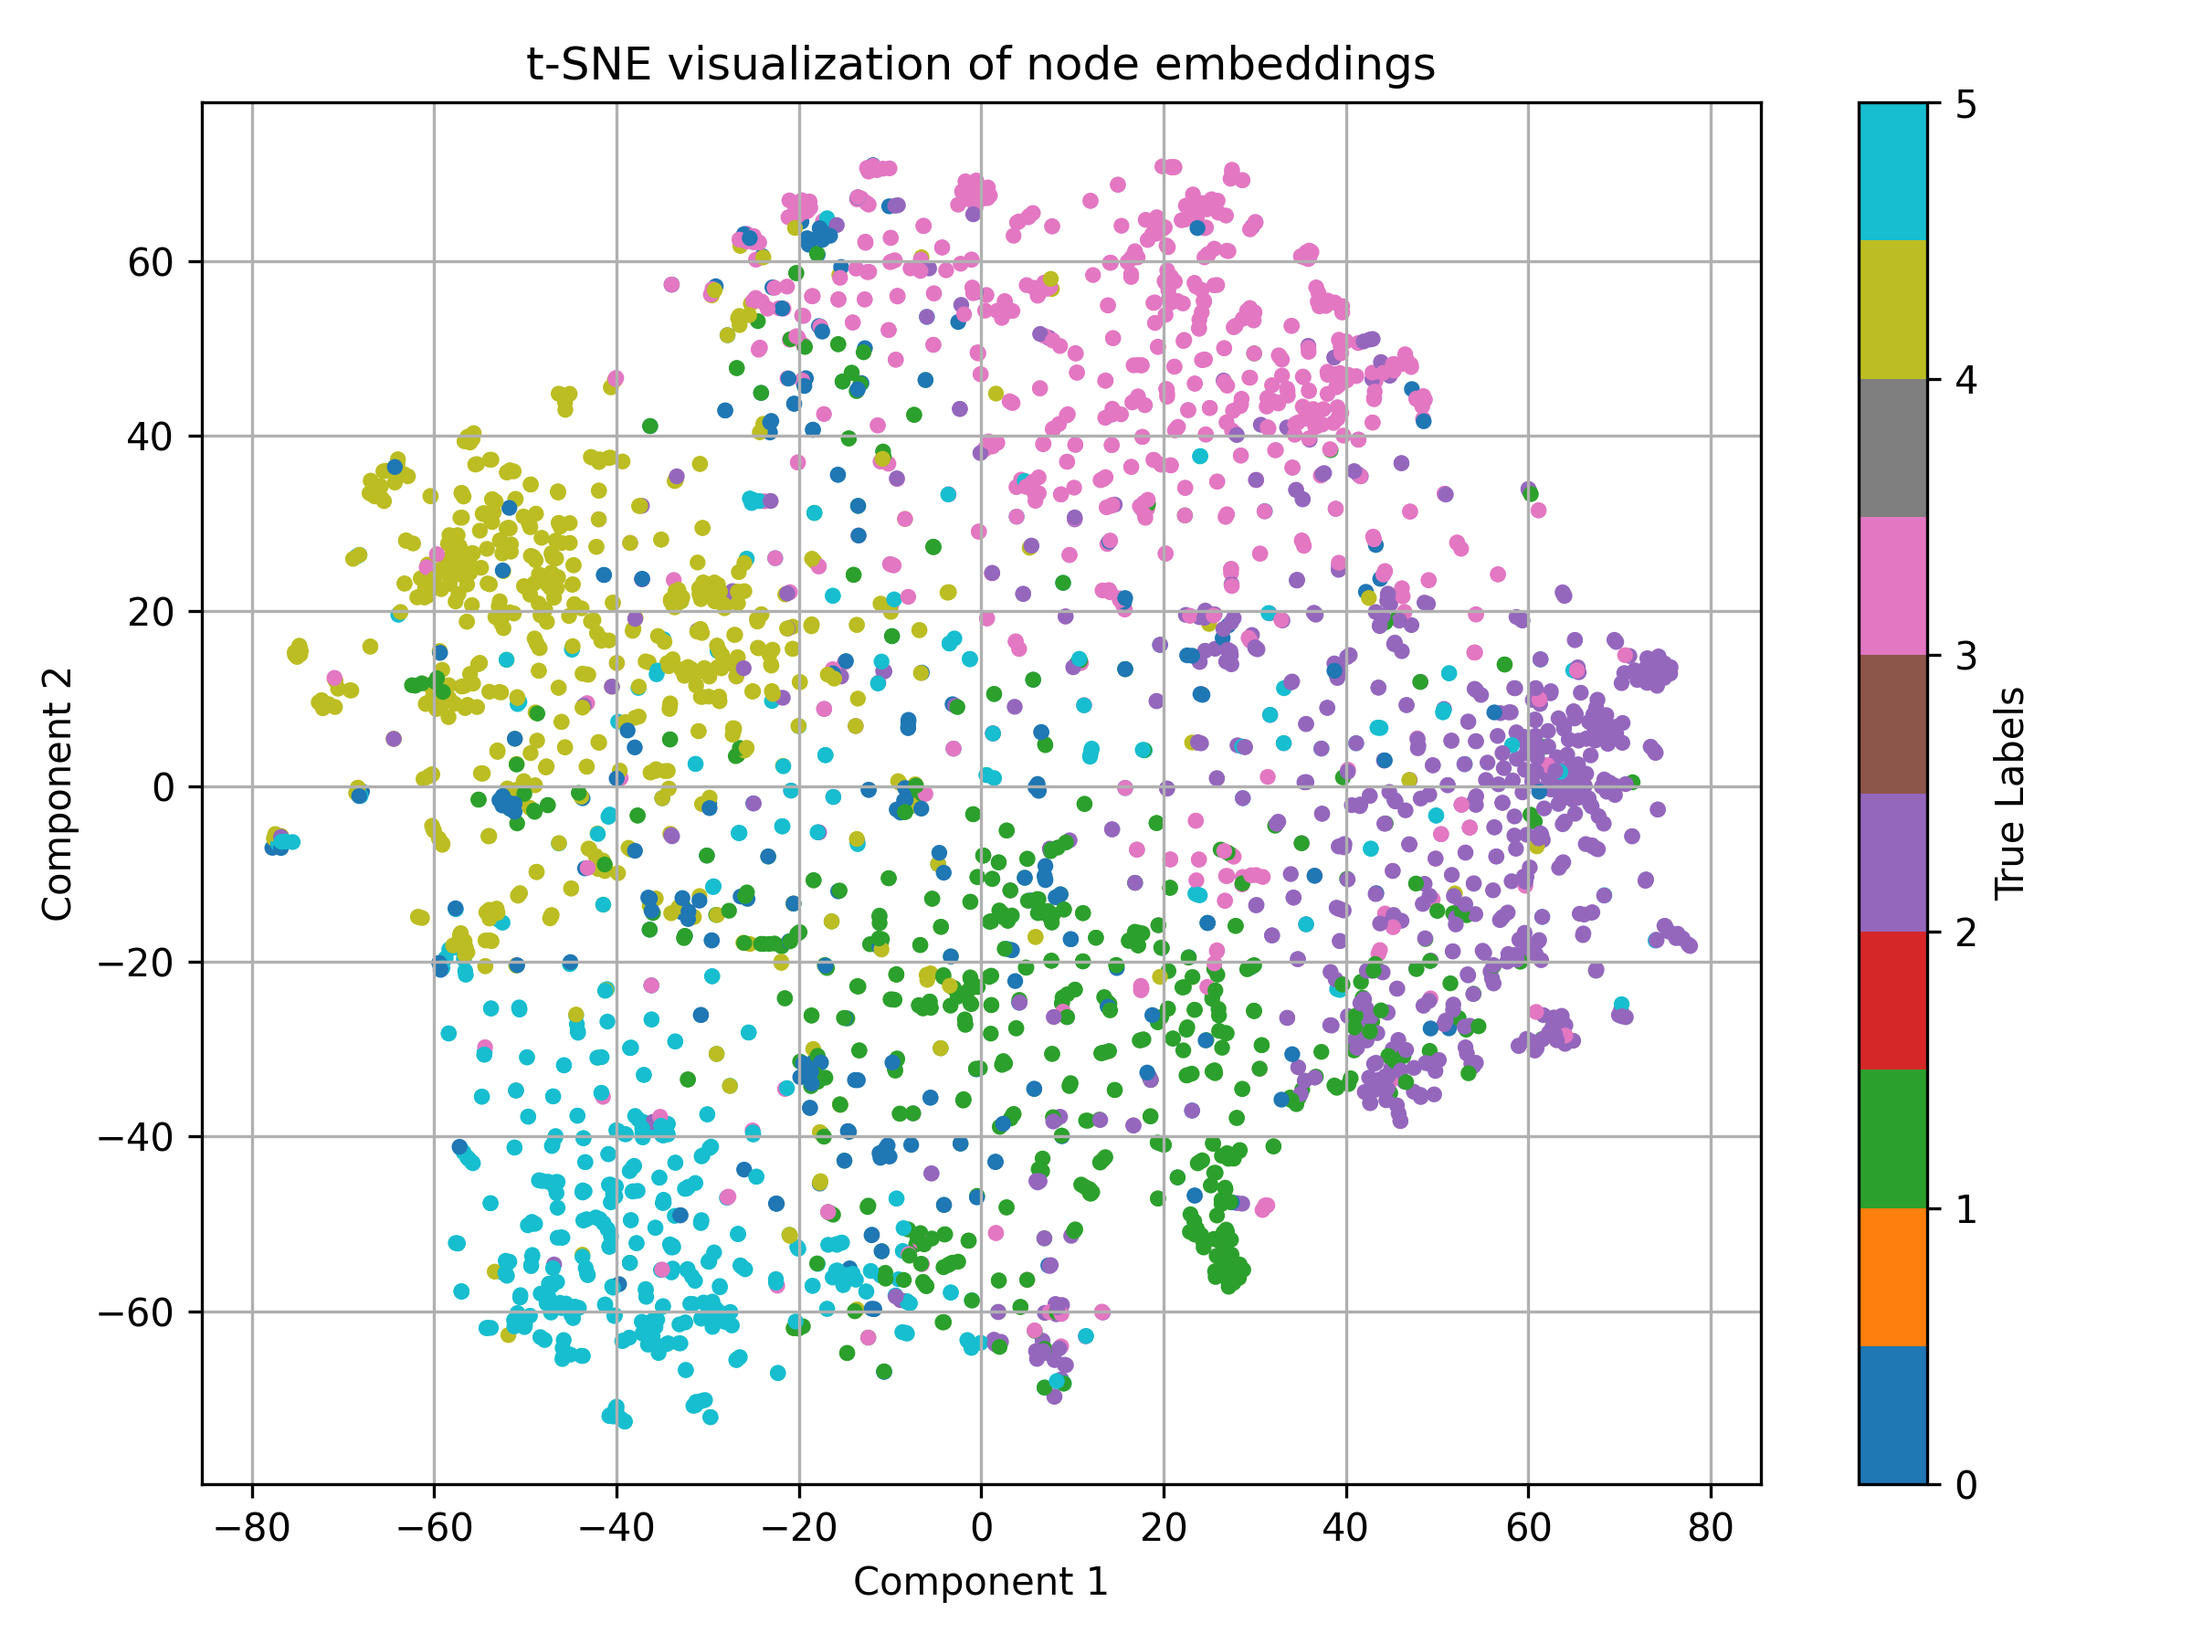
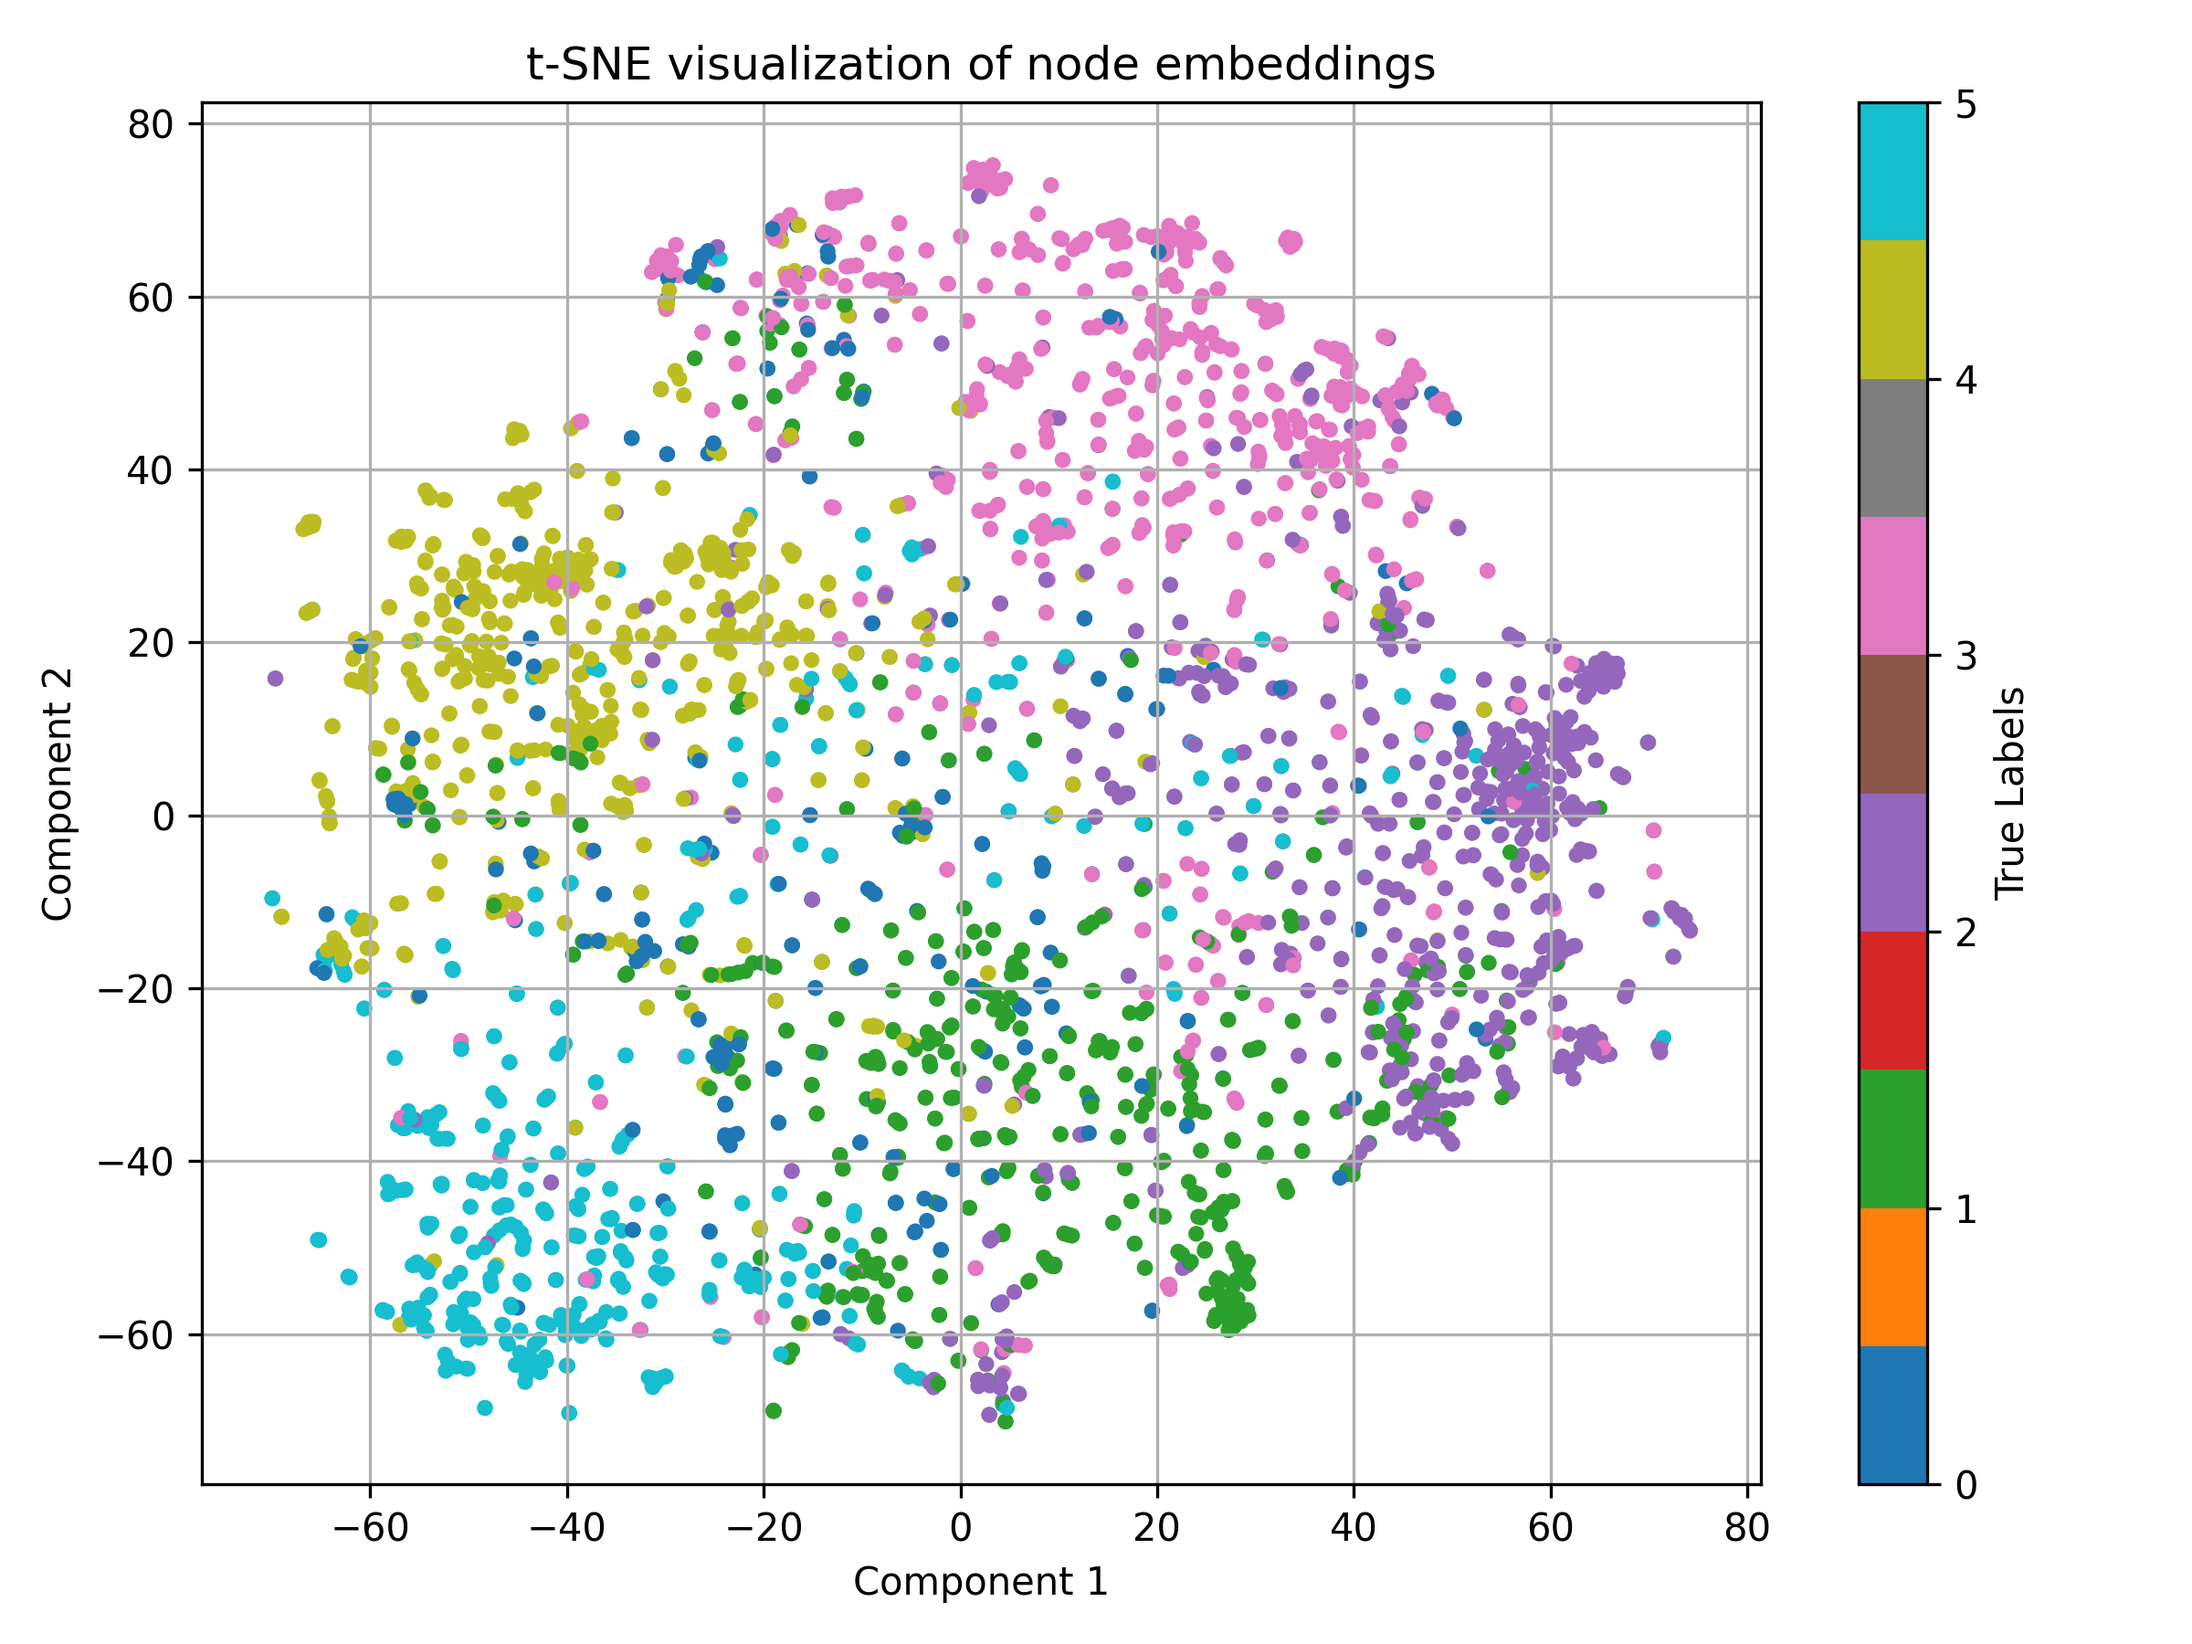
learnable clustering model added

diff --git a/src/modularity_model.py b/src/modularity_model.py
@@ -9,7 +9,7 @@ class DEC_Clustering(nn.Module):
     """Deep Embedded Clustering adapted for graph embeddings with spectral initialization"""
     
     def __init__(self, input_dim=512, n_clusters=10, hidden_dim=256, 
-                 alpha=0.8, dropout=0.1):
+                 alpha=0.8, dropout=0.3):
         super().__init__()
         self.n_clusters = n_clusters
         self.alpha = alpha
@@ -19,11 +19,11 @@ class DEC_Clustering(nn.Module):
         self.projection = nn.Sequential(
             nn.Linear(input_dim, hidden_dim),
             nn.BatchNorm1d(hidden_dim),
-            nn.PReLU(),
+            nn.SELU,
             nn.Dropout(dropout),
             nn.Linear(hidden_dim, hidden_dim),
             nn.BatchNorm1d(hidden_dim),
-            nn.PReLU(),
+            nn.SELU(),
             nn.Linear(hidden_dim, input_dim)  # Added to match original dim
         )
         
